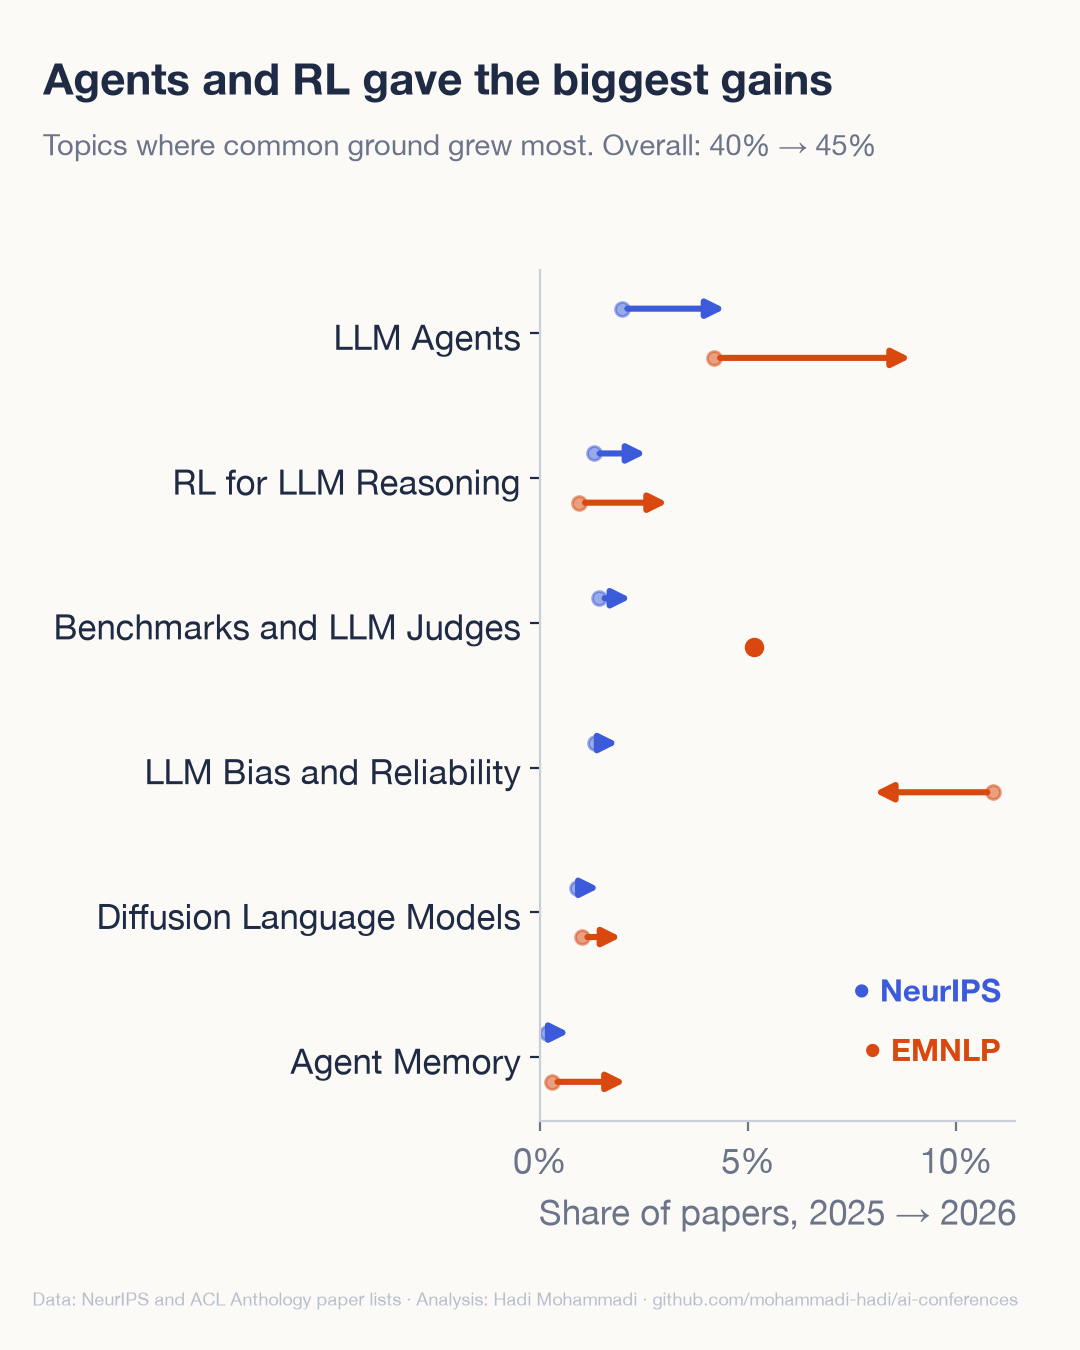
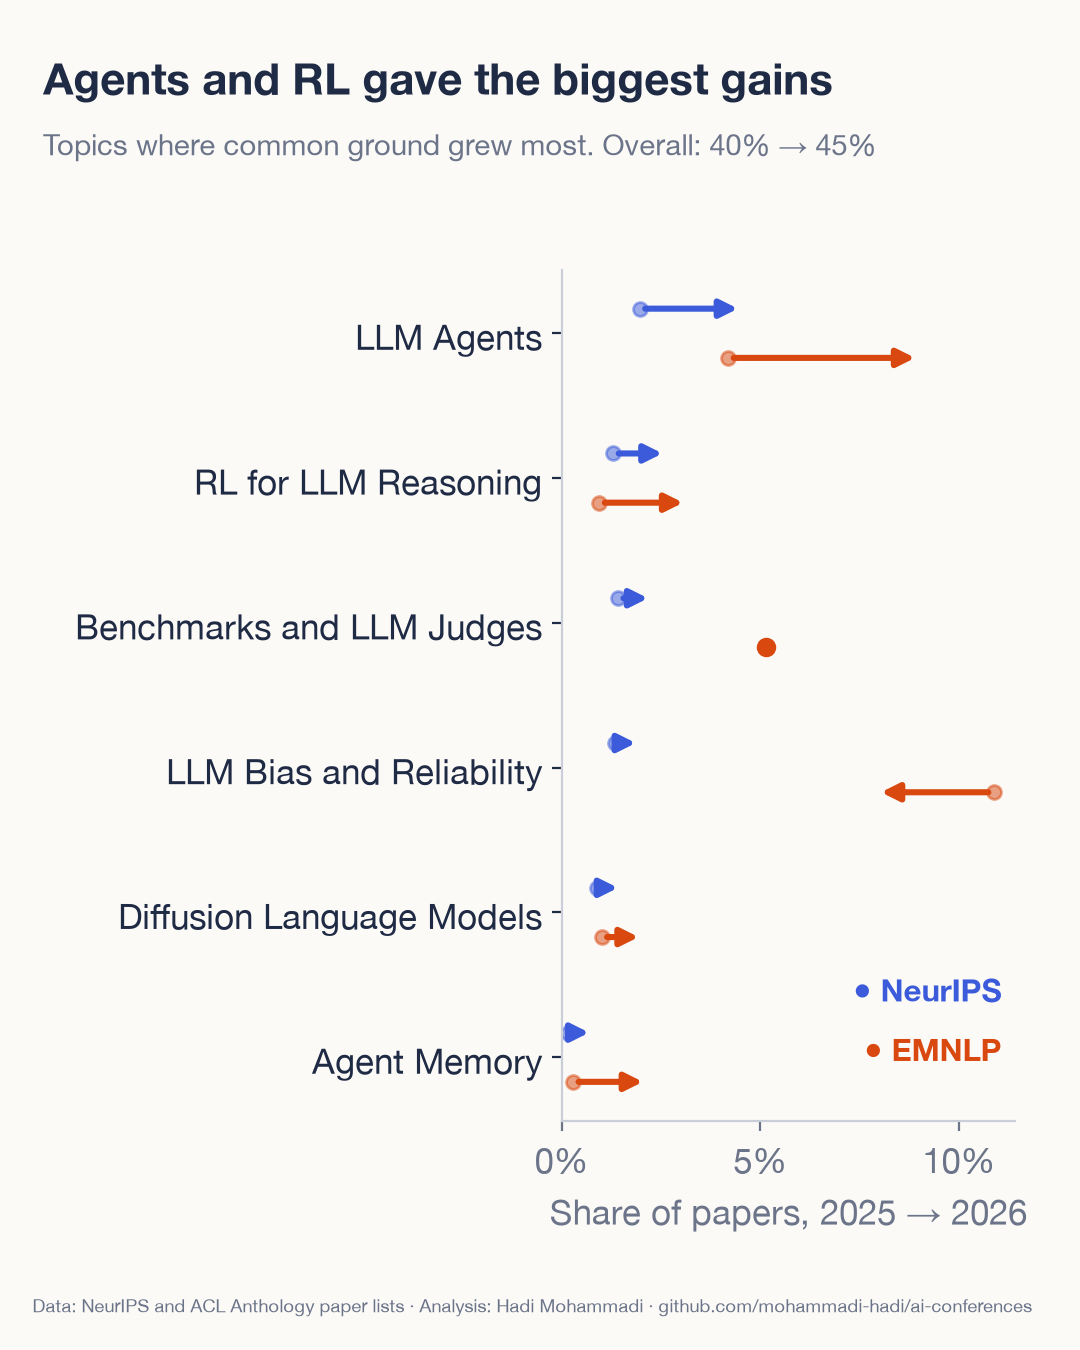
Refresh the sharing images

diff --git a/src/08_figures.py b/src/08_figures.py
@@ -33,11 +33,11 @@ def finish(fig, ax, title, sub, name, src_y=-0.04):
     fig.text(0.01, src_y, SOURCE, fontsize=8, color=GREY, transform=fig.transFigure, ha="left", va="top")
     if PORTRAIT:
         (OUT / "cards").mkdir(exist_ok=True)
-        left = {"closeness.png": .25, "topics_together.png": .5, "still_apart.png": .58}[name]
+        left = {"closeness.png": .26, "topics_together.png": .52, "still_apart.png": .62}[name]
         fig.subplots_adjust(left=left, right=.94, top=.8, bottom=.17)
         for t in fig.texts:  # the source line goes inside the card
             if t.get_text() == SOURCE:
-                t.set_transform(fig.transFigure); t.set_position((.03, .03)); t.set_fontsize(6.5); t.set_va("bottom")
+                t.set_transform(fig.transFigure); t.set_position((.03, .025)); t.set_fontsize(6.6); t.set_color(MUTED); t.set_va("bottom")
         for t in fig.texts:  # title and subtitle start at the left edge of the card
             if t.get_text() != SOURCE:
                 t.set_transform(fig.transFigure); t.set_x(.04)

diff --git a/src/15_cards.py b/src/15_cards.py
@@ -1,5 +1,5 @@
 """Portrait images (1080 x 1350) for the LinkedIn post, in outputs/cards/:
-1_overlap.png  the hexagon map, 2025 above 2026, with the headline numbers
+1_overlap.png  the hexagon map, 2025 and 2026 side by side, with the headline numbers
 2_closer.png, 3_topics.png, 4_apart.png  made by 08_figures.py portrait
 """
 import json
